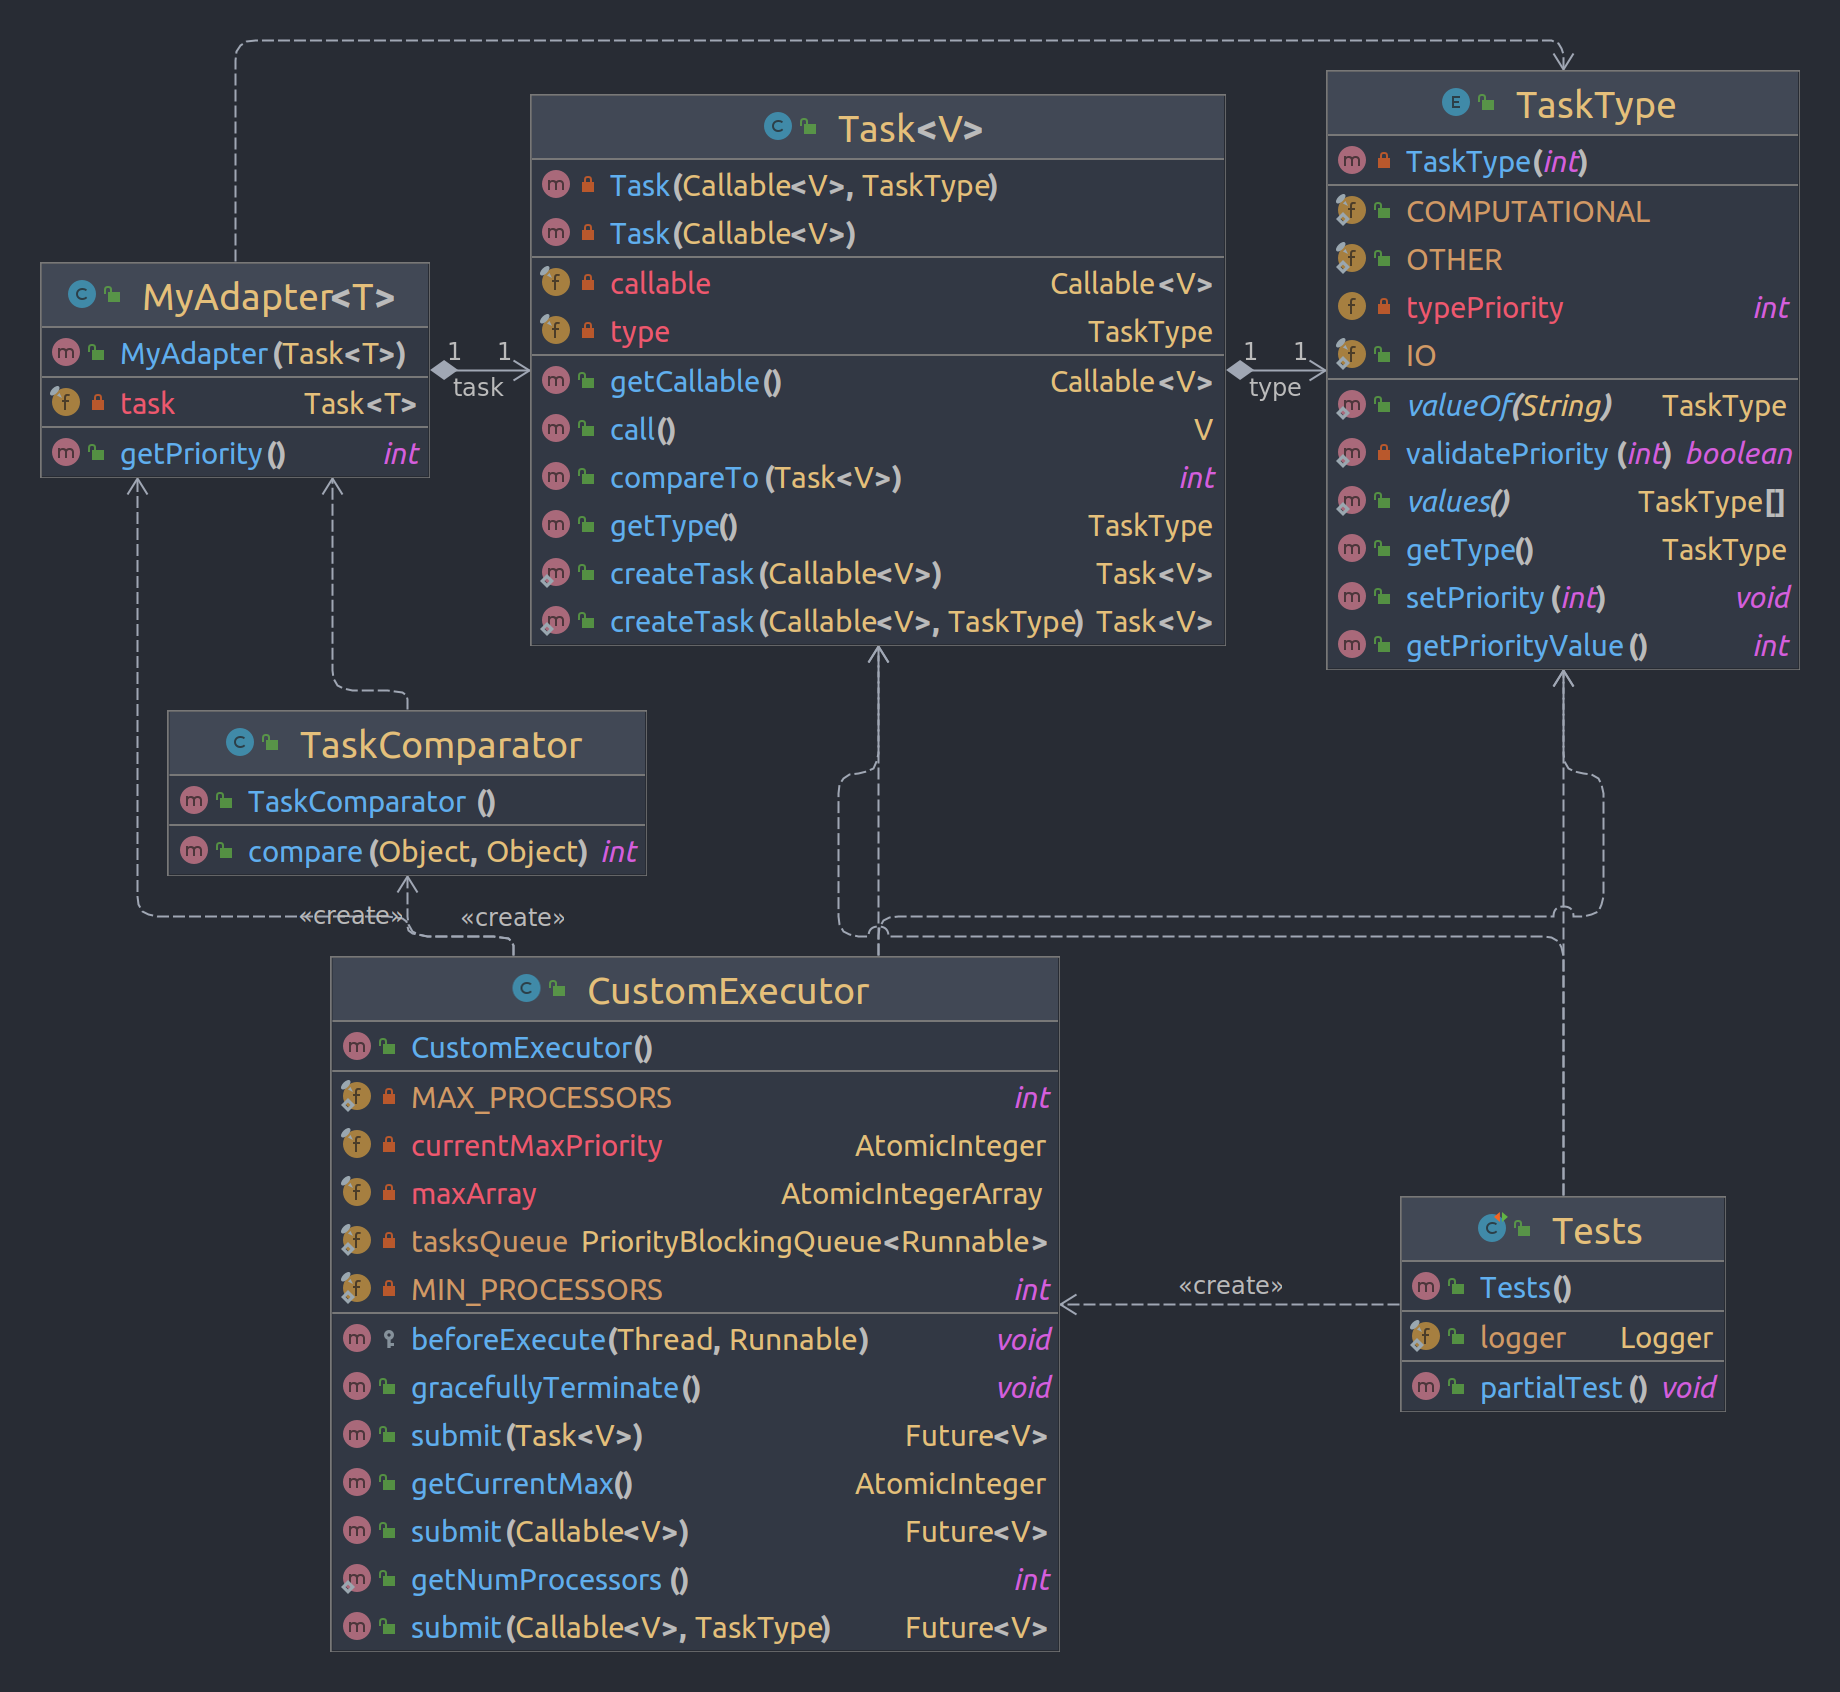
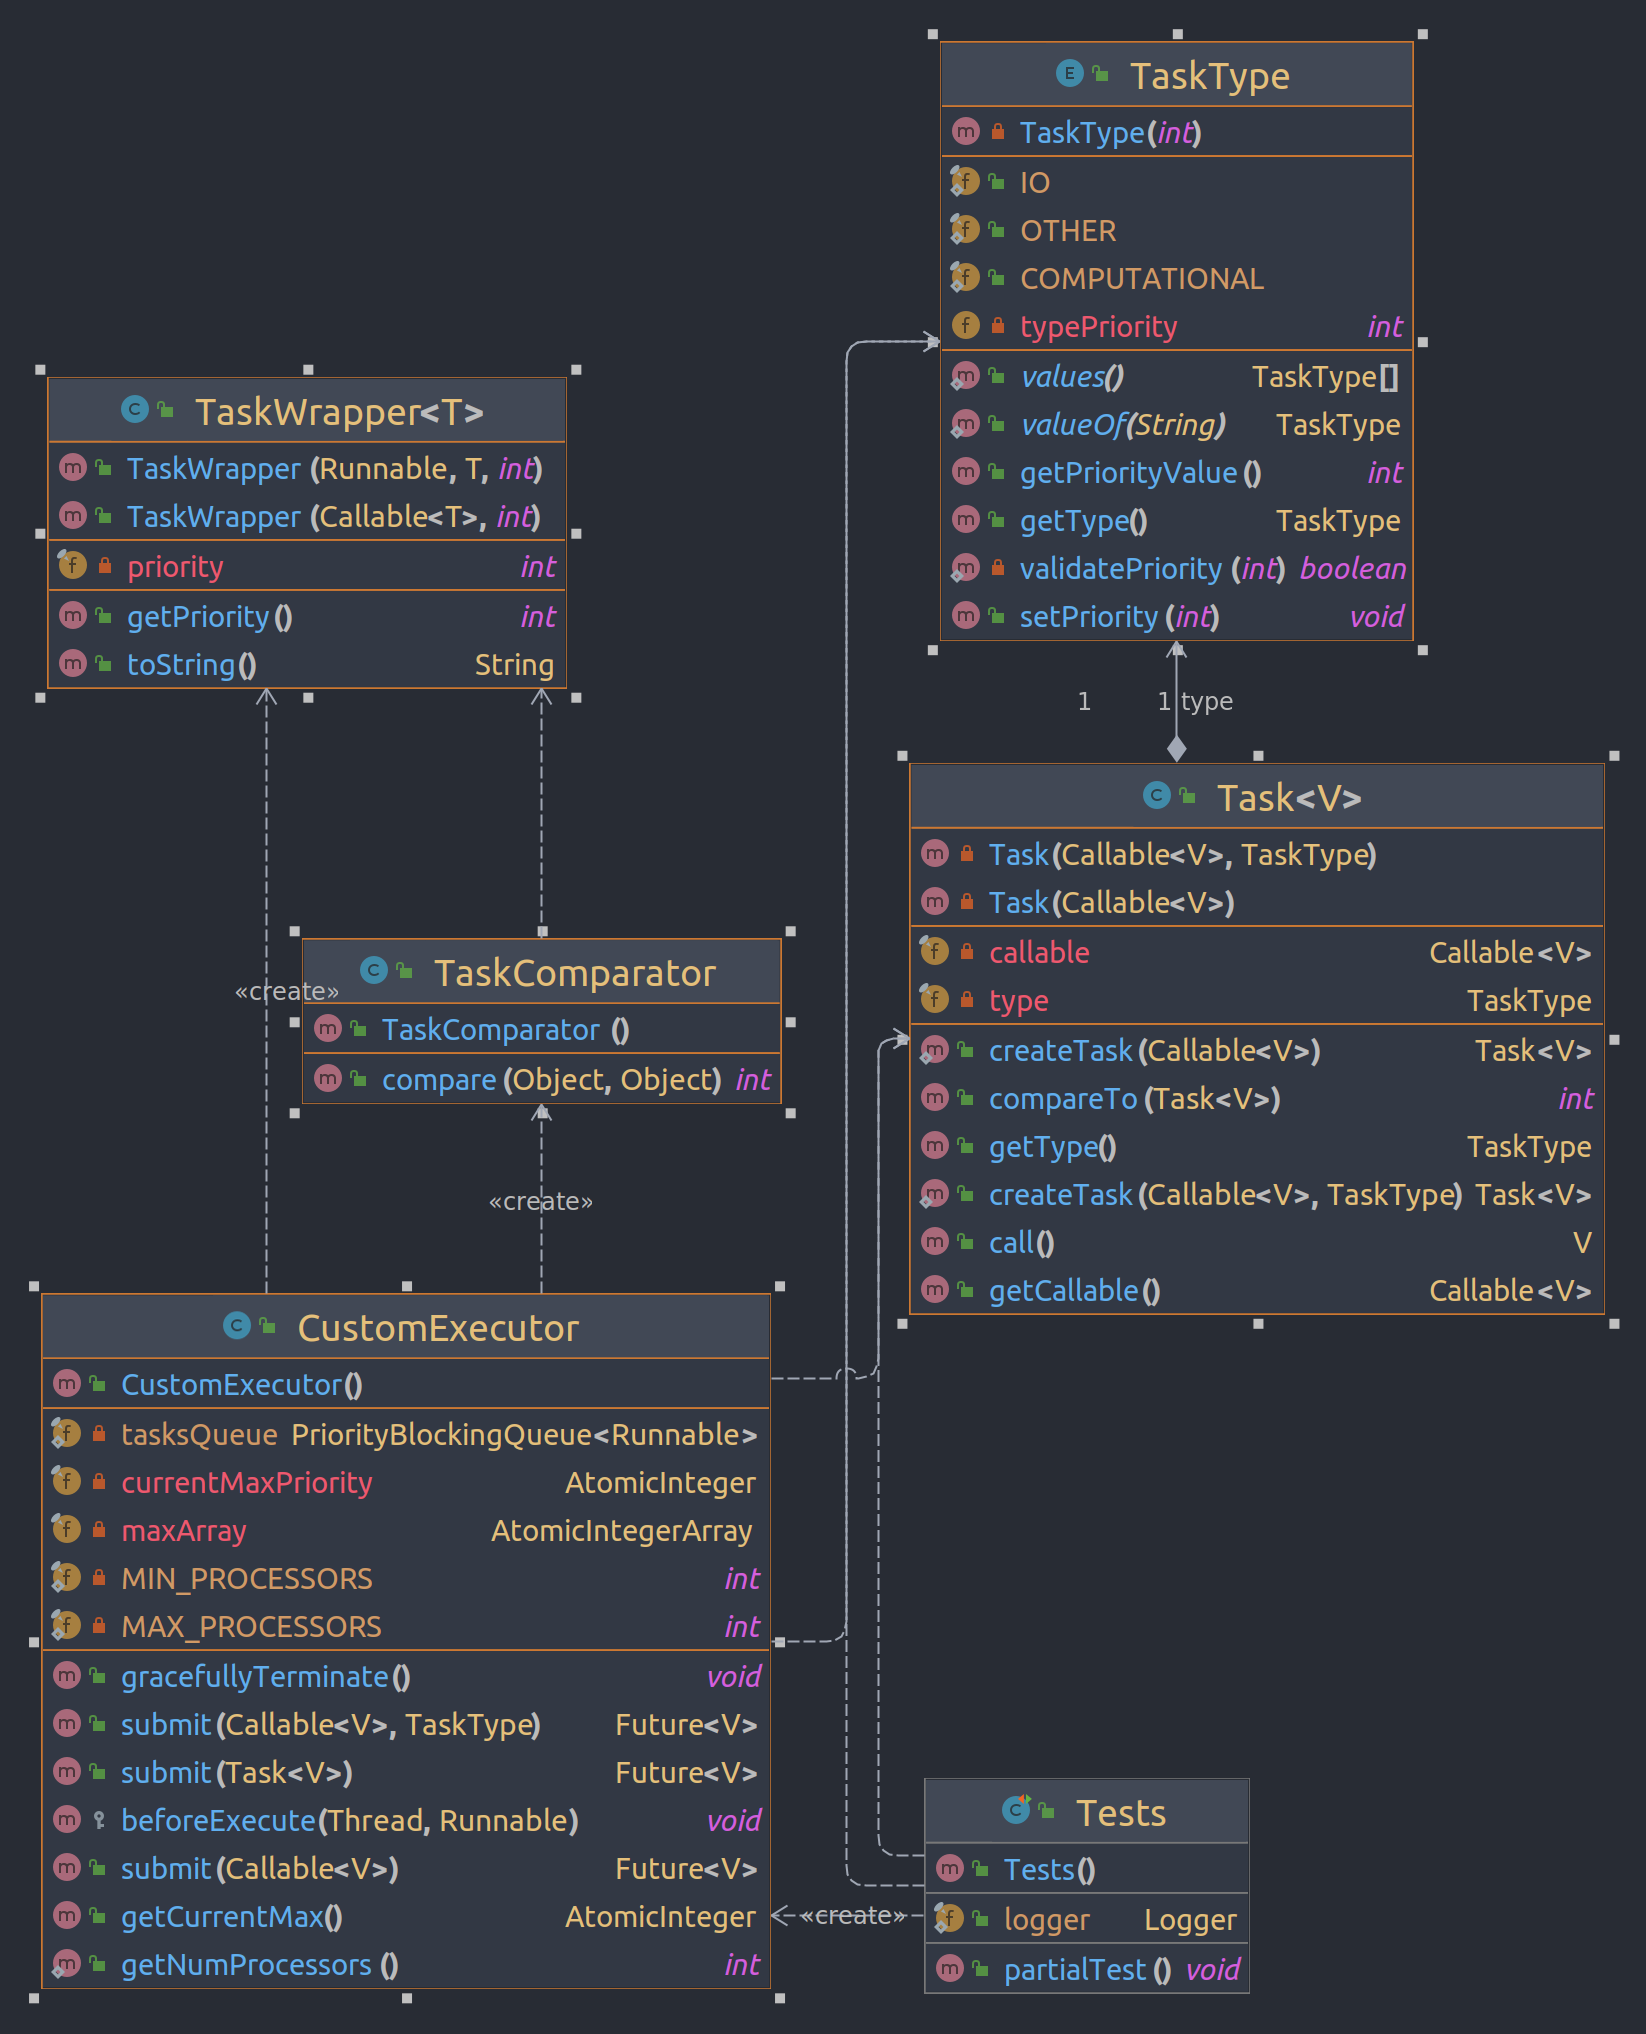
.

diff --git a/Part 2/CustomExecutor.java b/Part 2/CustomExecutor.java
@@ -62,14 +62,16 @@ public class CustomExecutor extends ThreadPoolExecutor {
     }
 
     /***
-     * the function gets a task ,makes sure it's not null(otherwise throws null pointer exception).Our function then
-     * increases our Array (that holds what priorities we have in the queue) by 1 to the location of the specific
-     * priority ,next it updates max priority based on the new array. After that, it uses MyAdapter to adapt the task
-     * to a future(MyAdapter is of type future) and executes the adapter task and returns the MyAdapter object.
-     * (that is possible because it is of type future)
-     * @param task a generic task
-     * @return returns MyAdapter (future) after it is sent to the pool
-     * @param <V> the return is generic, so we can use all types.
+     * Submits a task of type Task<V> to the thread pool executor.
+     * It increments the value of the element at the index equal to the priority of the task in the maxArray AtomicIntegerArray,
+     * then iterates through the maxArray to find the current maximum priority. It then sets the value of currentMaxPriority to this value.
+     * It creates a new TaskWrapper<V> object, which wraps the task's callable and the task's priority.
+     * Then it calls the execute method of the parent class, ThreadPoolExecutor, to submit the task to the thread pool.
+     * Finally, it returns the Future object associated with the TaskWrapper<V> object.
+     *
+     * @param task the task to be submitted
+     * @return a Future representing pending completion of the task
+     * @throws NullPointerException if task is null
      */
     public <V> Future<V> submit(Task<V> task) {
         if (task != null) {
@@ -80,9 +82,9 @@ public class CustomExecutor extends ThreadPoolExecutor {
                     break;
                 }
             }
-            MyAdapter<V> taskAdapter=new MyAdapter<>(task);
-            super.execute(taskAdapter);
-            return taskAdapter;
+            TaskWrapper<V> taskWrapper = new TaskWrapper<>(task.getCallable(), task.getType().getPriorityValue());
+            super.execute(taskWrapper);
+            return taskWrapper;
         } else throw new NullPointerException();
     }
 
@@ -96,19 +98,17 @@ public class CustomExecutor extends ThreadPoolExecutor {
 
 
     /***
-     * This method is called before a Thread in the ThreadPoolExecutor begins execution of a Runnable task.
-     * If the given Runnable task is an instance of MyAdapter, it decreases the value at the index of the
-     * priority of the Task in the maxArray AtomicIntegerArray. Then, it iterates through the maxArray
-     * and looks for the first index with a non-zero value, and sets the currentMaxPriority to that index.
-     * Finally, it calls the superclass's beforeExecute() method.
+     * This method is called before a task is executed by the thread pool.
+     * If the task is a FutureTask, it decrements the value of the element at the index equal to the priority of the task in the maxArray AtomicIntegerArray,
+     * and then iterates through the maxArray to find the current maximum priority. It then sets the value of currentMaxPriority AtomicInteger to this value.
      *
-     * @param t the Thread that will run the task
-     * @param r the Runnable task that the Thread will execute
+     * @param t the thread that will run task r
+     * @param r the task that will be executed
      */
     @Override
     protected void beforeExecute(Thread t, Runnable r) {
         if (r instanceof FutureTask<?>) {
-            maxArray.getAndDecrement(((MyAdapter<?>) r).getPriority());
+            maxArray.getAndDecrement(((TaskWrapper<?>) r).getPriority());
             for (int i = 1; i < maxArray.length(); i++) {
                 if (maxArray.get(i) != 0) {
                     currentMaxPriority.set(i);
@@ -120,10 +120,17 @@ public class CustomExecutor extends ThreadPoolExecutor {
     }
 
     /***
-     * Initiates an orderly shutdown in which previously submitted tasks are executed, but no new tasks will be accepted.
+     * Terminates this executor in a graceful way.
+     * It calls the shutdown method of the parent class, ThreadPoolExecutor, and waits for termination to complete.
+     * If the termination is interrupted, a runtime exception is thrown.
      */
     public void gracefullyTerminate() {
-        super.shutdown();
+        try {
+            super.shutdown();
+            super.awaitTermination(1, TimeUnit.HOURS);
+        } catch (InterruptedException e) {
+            throw new RuntimeException(e);
+        }
     }
 
 }

diff --git a/Part 2/TaskComparator.java b/Part 2/TaskComparator.java
@@ -1,18 +1,20 @@
 import java.util.Comparator;
+
 public class TaskComparator implements Comparator<Object> {
 
-    /***
-     *This method compares the two objects passed to it and returns an integer value indicating their relative ordering.
-     * If both objects are TaskAdapter objects, it compares the taskAdapter types based on the priority value
-     *  If either object is not a TaskAdapter object, it returns -1.
-     * @param o1 the first object to be compared.
-     * @param o2 the second object to be compared.
-     * @return a negative integer, zero, or a positive integer as the first object is less than, equal to, or greater than the second object
+    /**
+     * Compares two TaskWrapper objects based on their priority.
+     *
+     * @param o1 the first TaskWrapper to be compared
+     * @param o2 the second TaskWrapper to be compared
+     * @return a negative integer, zero, or a positive integer as the first argument is less than, equal to, or greater than the second.
+     * If o1 and o2 are not both instances of TaskWrapper, returns -1
      */
     @Override
     public int compare(Object o1, Object o2) {
-        if(o1 instanceof MyAdapter<?> && o2 instanceof MyAdapter<?>){
-            return Integer.compare(((MyAdapter<?>) o2).getPriority(),((MyAdapter<?>) o1).getPriority());}
+        if (o1 instanceof TaskWrapper<?> && o2 instanceof TaskWrapper<?>) {
+            return Integer.compare(((TaskWrapper<?>) o2).getPriority(), ((TaskWrapper<?>) o1).getPriority());
+        }
         return -1;
     }
 }

diff --git a/Part 2/TaskWrapper.java b/Part 2/TaskWrapper.java
@@ -1,0 +1,52 @@
+import java.util.concurrent.Callable;
+import java.util.concurrent.FutureTask;
+
+/**
+ * A wrapper class for tasks that are submitted to the thread pool executor.
+ */
+
+public class TaskWrapper<T> extends FutureTask<T> {
+    private final int priority;
+
+    /**
+     * Constructor which initializes the callable and priority fields
+     *
+     * @param callable the callable task
+     * @param priority the priority of the task
+     */
+    public TaskWrapper(Callable<T> callable, int priority) {
+        super(callable);
+        this.priority = priority;
+    }
+
+    /**
+     * Constructor which initializes the runnable, result and priority fields
+     *
+     * @param runnable the runnable task
+     * @param result   the result of the task
+     * @param priority the priority of the task
+     */
+    public TaskWrapper(Runnable runnable, T result, int priority) {
+        super(runnable, result);
+        this.priority = priority;
+    }
+
+
+    /**
+     * @return the priority of the task
+     */
+    public int getPriority() {
+        return priority;
+    }
+
+    /**
+     * @return a string representation of the class
+     */
+    @Override
+    public String toString() {
+        return "TaskWrapper {" +
+                "priority=" + priority +
+                '}';
+    }
+
+}

diff --git a/Part 2/Tests.java b/Part 2/Tests.java
@@ -90,6 +90,6 @@ public class Tests {
         logger.info(() -> "Current maximum priority = " + customExecutor.getCurrentMax());
 
         customExecutor.gracefullyTerminate();
-        Assertions.assertThrows(RejectedExecutionException.class, ()-> customExecutor.submit(() ->{return 5;}));
+        logger.info(()-> "Current active threads " + customExecutor.getActiveCount());
     }
 }

diff --git a/Part 1/Ex2.java b/Part 1/Ex2.java
@@ -4,7 +4,7 @@ import java.util.Random;
 import java.util.concurrent.*;
 
 public class Ex2 {
-    public static class Ex2_1 { //TODO not sure about the class name
+    public static class Ex2_1 {
 
         /***
          * The method creates an array of file names, creates a Random object with the specified seed, and then uses a loop to create n text files.
